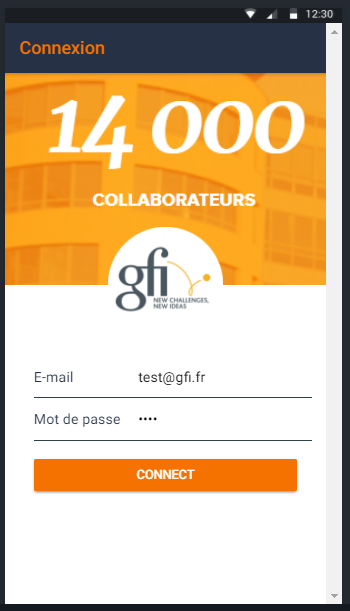
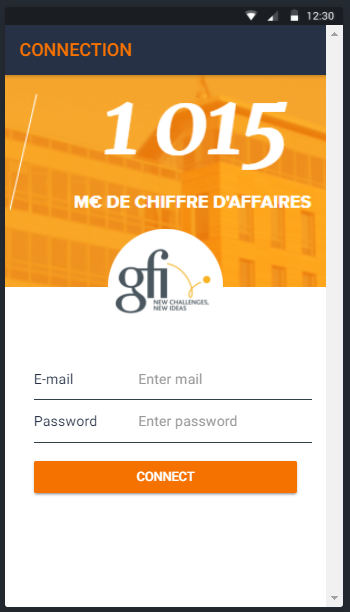
commit avec un nom :P

diff --git a/README.md b/README.md
@@ -106,7 +106,7 @@ On retrouve ici les informations relative à une fiche besoin déjà créée. To
 
 <a name="ann_cre"></a> <img src="src/assets/img/doctech/capturecreate.png" width="295" /><a name="ann_sea"></a> <img src="src/assets/img/doctech/capturesearch.png" width="300" />
 
-<a name="ann_upd"></a> <img src="src/assets/img/doctech/captureupdate.png" width="295" />
+<a name="ann_upd"></a> <img src="src/assets/img/doctech/captureupdate 01.png" width="295" /> <img src="src/assets/img/doctech/captureupdate 02.png" width="293" />
 
 ## <a name="credits"></a> Crédits
 
